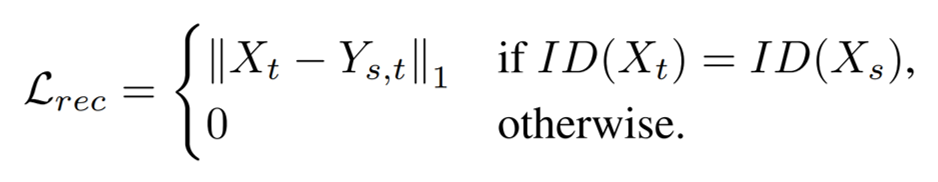
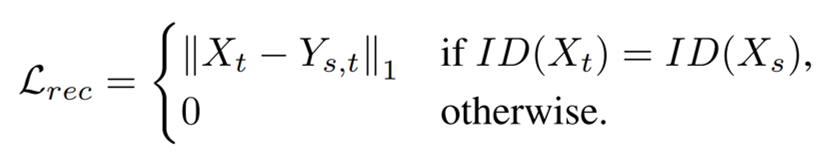
update

diff --git a/_posts/2023-09-04-BlendFace.md b/_posts/2023-09-04-BlendFace.md
@@ -106,7 +106,7 @@ FaceShifter에서 사용한 attributes loss 대신 cycle consistency loss를 사
 
 Adversarial loss $\cal{L}_{adv}$는 Gau-GAN에서의 것을 사용한다. 최종적인 loss $\cal{L}$은 다음과 같다. 
 
-![img14.png](/assets/img/2023-09-04/img14.png)
+![img14.png](/assets/img/2023-09-04/img14.png){: width="50%"",height="50%""}
 
 # Experiment
 
